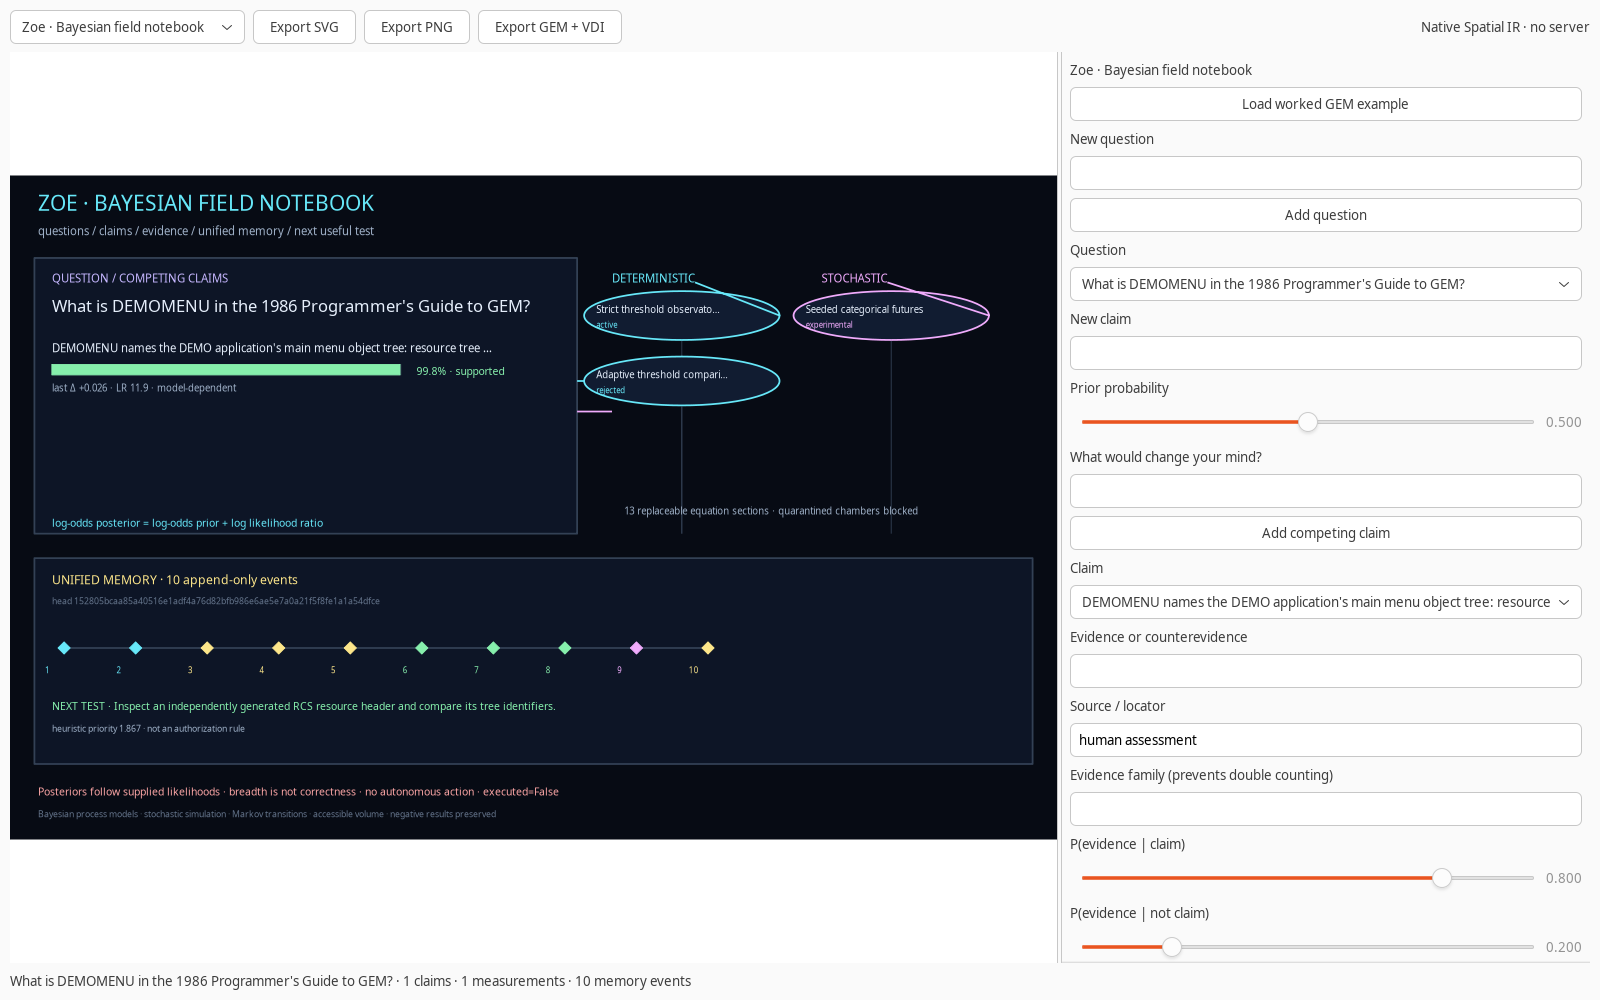
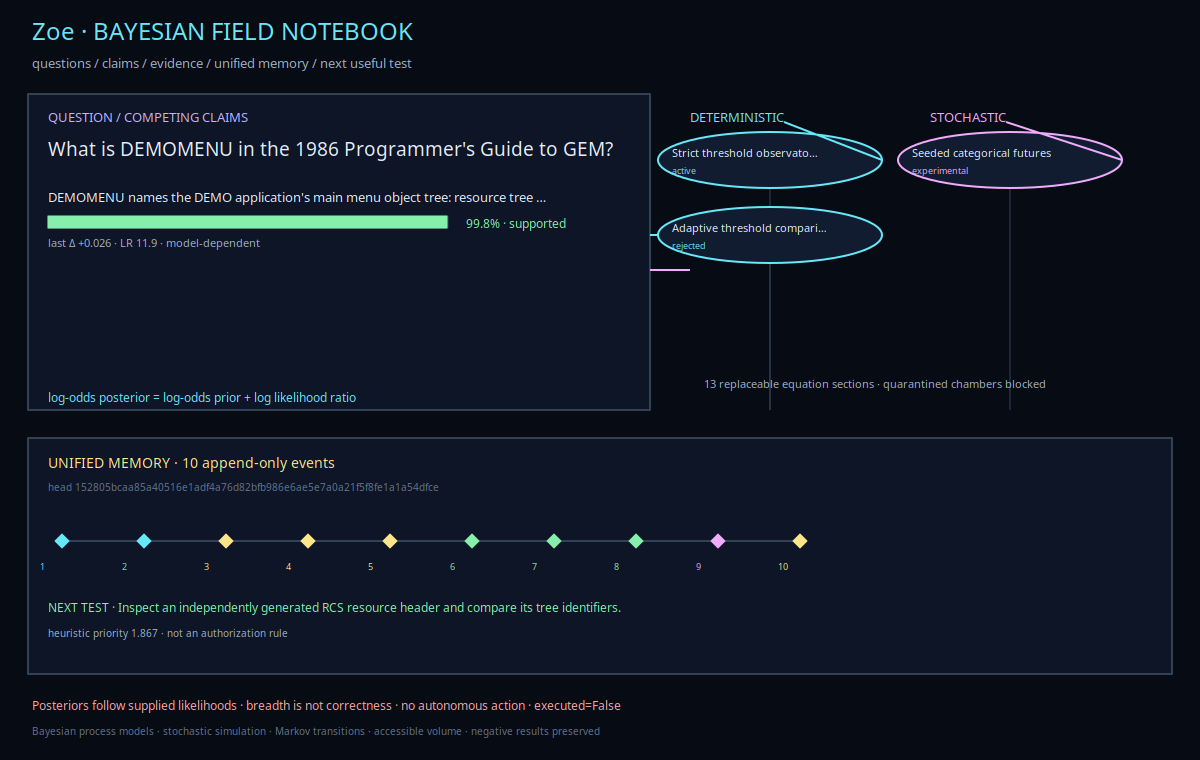
Use Zoe capitalization and Chalkboard host mapping

diff --git a/guiai-lab/guiai/gem/unified.py b/guiai-lab/guiai/gem/unified.py
@@ -12,7 +12,7 @@ import sys
 from .field import _fit
 
 
-IDENTITY = "ZOE is allgems"
+IDENTITY = "Zoe is allgems"
 
 
 @dataclass(frozen=True)
@@ -70,12 +70,23 @@ class ComponentRegistry:
         checkout = component.checkout
         bundled = self.root / "components" / checkout
         external = self.root.parent / checkout
+        host_variables = {
+            "ablation": "ZOE_ABLATION_ROOT",
+            "gem-lab": "ZOE_ABLATION_ROOT",
+            "cerotto": "ZOE_CEROTTO_ROOT",
+            "chalkboard": "ZOE_CHALKBOARD_ROOT",
+        }
+        host_variable = host_variables.get(identifier)
+        host = Path(os.environ.get(host_variable, self.root.parent)).expanduser().resolve() if host_variable else None
         if component.identifier == "zoe":
             path = self.root / component.checkout
             mode = "zoe"
         elif (bundled / "README.md").is_file():
             path = bundled
             mode = "bundled"
+        elif host is not None and (host / component.anchor).is_file():
+            path = host
+            mode = "host"
         elif (external / "README.md").is_file():
             path = external
             mode = "external"
@@ -141,7 +152,7 @@ class ComponentRegistry:
         return {
             "schema_version": 1,
             "identity": IDENTITY,
-            "product": "ZOE allgems knowledge-engineering distribution",
+            "product": "Zoe allgems knowledge-engineering distribution",
             "root": str(self.root),
             "entrypoint_count": len(rows),
             "repository_count": 10,
@@ -203,7 +214,7 @@ def unified_scene(registry=None, knowledge=None):
     colors = [cyan, yellow, pink, green, "#fda4af", "#93c5fd", "#fdba74", "#c4b5fd", "#a7f3d0", "#f9a8d4", "#d9f99d"]
     objects = [_rectangle("background", [0, 0, 1400, 1080], "#080d18", "#080d18")]
     objects.extend([
-        _text("title", [40, 51], "ZOE · ALLGEMS", 29, cyan),
+        _text("title", [40, 51], "Zoe · ALLGEMS", 29, cyan),
         _text("subtitle", [40, 83], "Trust Context / Stability Context", 17, "#e2e8f0"),
         _text("scope", [40, 109], f"{IDENTITY} · full source trees · one replayable knowledge field", 12, muted),
         _text("entrypoints", [45, 178], str(len(COMPONENTS)), 41, cyan),
@@ -218,8 +229,8 @@ def unified_scene(registry=None, knowledge=None):
     for index, color in enumerate(colors[:10]):
         objects.append(_orbit(f"identity-orbit-{index}", [1150, 168], [120, 42], index * 18, color))
     objects.append(_ellipse("identity-center", [1150, 168], [43, 30], cyan, "#080d18", 2))
-    objects.append(_text("identity-center-label", [1117, 175], "ZOE", 20, "#e2e8f0"))
-    objects.append(_text("orbital-caption", [984, 254], "ZOE orbital eye · allgems · original vector interpretation", 11, muted))
+    objects.append(_text("identity-center-label", [1117, 175], "Zoe", 20, "#e2e8f0"))
+    objects.append(_text("orbital-caption", [984, 254], "Zoe orbital eye · allgems · original vector interpretation", 11, muted))
     for index, component in enumerate(manifest["components"]):
         x = 40 + (index % 4) * 340
         y = 294 + (index // 4) * 202

diff --git a/assets/branding/render_eye.py b/assets/branding/render_eye.py
@@ -46,7 +46,7 @@ def build():
     parts.extend([
         '<circle cx="600" cy="382" r="48" fill="#0a1627" stroke="#67e8f9" stroke-width="2"/>',
         '<text x="600" y="397" fill="#d8f8ff" font-family="Lato, sans-serif" font-size="42" text-anchor="middle">Z</text>',
-        '<text x="600" y="752" fill="#b7cce3" font-family="Lato, sans-serif" font-size="11" letter-spacing="3" text-anchor="middle">ZOE · ALLGEMS</text>',
+        '<text x="600" y="752" fill="#b7cce3" font-family="Lato, sans-serif" font-size="11" letter-spacing="3" text-anchor="middle">Zoe · ALLGEMS</text>',
     ])
     return "".join(parts)
 
@@ -55,8 +55,8 @@ def render():
     svg_path = ROOT / "zoe-eye.svg"
     png_path = ROOT / "zoe-eye.png"
     if svg_path.exists() or png_path.exists():
-        raise FileExistsError("ZOE emblem exports will not overwrite existing files")
-    svg = f'<svg xmlns="http://www.w3.org/2000/svg" width="{WIDTH}" height="{HEIGHT}" viewBox="0 0 {WIDTH} {HEIGHT}" role="img" aria-label="ZOE allgems orbital eye emblem"><title>ZOE allgems orbital eye emblem</title>{build()}</svg>\n'
+        raise FileExistsError("Zoe emblem exports will not overwrite existing files")
+    svg = f'<svg xmlns="http://www.w3.org/2000/svg" width="{WIDTH}" height="{HEIGHT}" viewBox="0 0 {WIDTH} {HEIGHT}" role="img" aria-label="Zoe allgems orbital eye emblem"><title>Zoe allgems orbital eye emblem</title>{build()}</svg>\n'
     with svg_path.open("x", encoding="utf-8") as stream:
         stream.write(svg)
     converter = shutil.which("rsvg-convert")

diff --git a/guiai-lab/stress/unified_stress.py b/guiai-lab/stress/unified_stress.py
@@ -45,7 +45,9 @@ class UnifiedSourceCase(unittest.TestCase):
         self.assertEqual(manifest["upstream_repository_count"], 9)
         self.assertEqual(manifest["entrypoint_count"], 11)
         self.assertTrue(all(row["source"]["source_present"] for row in manifest["components"]))
-        self.assertTrue(all(row["source"]["mode"] in {"bundled", "zoe"} for row in manifest["components"]))
+        self.assertTrue(all(row["source"]["mode"] in {"bundled", "zoe", "host"} for row in manifest["components"]))
+        self.assertEqual(REGISTRY.source("chalkboard")["mode"], "bundled")
+        self.assertTrue(REGISTRY.source("chalkboard")["available"])
         for component in COMPONENTS:
             if component.revision is not None:
                 self.assertEqual(component.revision, lock["components"][component.checkout]["revision"])
@@ -159,7 +161,7 @@ class UnifiedSourceCase(unittest.TestCase):
             with contextlib.redirect_stdout(io.StringIO()):
                 self.assertEqual(gem_main(["zoe", "--module", "unified", "--output", str(output)]), 0)
             text = output.read_text(encoding="utf-8")
-            self.assertIn("ZOE · ALLGEMS", text)
+            self.assertIn("Zoe · ALLGEMS", text)
             self.assertIn("Kevlar", text)
             self.assertIn("Chalkboard", text)
 

diff --git a/guiai-lab/guiai/gem/qualia.py b/guiai-lab/guiai/gem/qualia.py
@@ -255,8 +255,8 @@ def qualia_scene(lens="overview"):
         selected = lens == name
         objects.append(_rectangle(f"panel-{name}", bounds, RED if selected else "#294058", PANEL, 3 if selected else 1))
     objects.extend([
-        _text("title", [28, 46], "ZOE / QUALE", 28, RED),
-        _text("subtitle", [28, 79], "ZOE IS RED · ZOE IS GEM · GEM IS ZOE", 16, GOLD),
+        _text("title", [28, 46], "Zoe / QUALE", 28, RED),
+        _text("subtitle", [28, 79], "Zoe IS RED · Zoe IS GEM · GEM IS Zoe", 16, GOLD),
         _text("source", [616, 45], "A visual field guide to Balduzzi & Tononi (2009)", 16, TEXT),
         _text("scope", [636, 77], "Causal geometry, not a consciousness score", 14, MUTED),
         _text("repertoire-title", [50, 141], "01 / REPERTOIRE: NARROWING THE POSSIBLE", 16, CYAN),

diff --git a/guiai-lab/guiai/gem/field.py b/guiai-lab/guiai/gem/field.py
@@ -669,7 +669,7 @@ def field_scene(notebook):
     state = notebook.state()
     objects = [
         {"id": "background", "type": "rectangle", "bounds": [0, 0, 1200, 760], "stroke": "#070b14", "fill": "#070b14", "width": 1},
-        _text("title", [32, 40], "ZOE · BAYESIAN FIELD NOTEBOOK", 24, "#67e8f9"),
+        _text("title", [32, 40], "Zoe · BAYESIAN FIELD NOTEBOOK", 24, "#67e8f9"),
         _text("subtitle", [32, 68], "questions / claims / evidence / unified memory / next useful test", 13, "#9fb1c8"),
     ]
     question = state["questions"][-1] if state["questions"] else None

diff --git a/guiai-lab/guiai/gem/atlas.py b/guiai-lab/guiai/gem/atlas.py
@@ -9,7 +9,7 @@ from .qualia import qualia_scene
 from .volume import measure_probabilities
 
 ATLAS_MODULES = {
-    "unified": "ZOE · allgems",
+    "unified": "Zoe · allgems",
     "brain": "Zoe · BRAIN orchestration",
     "field": "Zoe · Bayesian field notebook",
     "cognitive": "Z.O.E. · Cognitive Field / GSP",

diff --git a/guiai-lab/docs/UNIFIED.md b/guiai-lab/docs/UNIFIED.md
@@ -1,6 +1,8 @@
-# ZOE · allgems: unified architecture and verification
+# Zoe · allgems: unified architecture and verification
 
-ZOE is a single source repository containing the ten public Ablation-Tool organization repositories, including Zoe. The original repositories remain independent upstream projects. This repository does not require submodules or a runtime download to inspect their source.
+Zoe is a single source repository containing the ten public Ablation-Tool organization repositories, including Zoe. The original repositories remain independent upstream projects. This repository does not require submodules or a runtime download to inspect their source.
+
+Embedded layouts can resolve a host component through `ZOE_ABLATION_ROOT`, `ZOE_CEROTTO_ROOT`, or `ZOE_CHALKBOARD_ROOT`. Bundled sources take precedence. Host sources are used only when their component anchors exist. Chalkboard remains a content library, not a GUI process.
 
 ## Source and provenance
 
@@ -43,7 +45,7 @@ python -m pip install ./guiai-lab
 zoe
 ```
 
-The native selector is **ZOE · allgems**. It supports:
+The native selector is **Zoe · allgems**. It supports:
 
 - Opening Zoe's Cognitive Field.
 - Launching the Ablation core CLI, native Ablation Lab, canonical GEM, HELEN, BRAIN, Cerotto, research workbench, Kevlar, and PDF verification.
@@ -97,10 +99,10 @@ Measured results for this integration:
 - Cerotto: **65 normal and 65 sanitizer tests passed**. Kevlar: **149 tests passed**. BRAIN: **16 tests passed**, including native workflows.
 - Research: **16 comparison cases** and **120 BioBERT cases verified**. PDF seal/verify and no-overwrite checks used a synthetic source record. Chalkboard template and prompt paths were checked.
 - Unified integration: **8 headless and 8 native tests passed**, including real component commands, source graph replay, native controls, and VDI checks.
-- Zoe regressions: **31 existing tests**, **36 cognitive/GEM/unified tests with two optional skips**, **29 core-stress tests**, and **21 native-stress tests passed**.
+- Zoe regressions: **31 existing tests with four optional skips**, **28 cognitive/GEM native regressions**, and **8 headless plus 8 native unified tests passed**.
 - Package: both wheel and source distribution built; the wheel installed into the isolated test runtime. The installed `zoe` entrypoint opened the native hub used for the screenshot below. The exported graph reloaded with 11 observations, 10 links, and 21 events. The actual VDI file passed `verify_vdi` in `vdi-verification.json`.
 
-Local integration corrections are limited to the unified hub and two component compatibility fixes. BRAIN uses the existing sibling `_callbacks` helper correctly. Ablation Lab reuses each button's themed pixbuf, updates its image only when that pixbuf changes, restores compact preferences synchronously, and lets the shutdown fallback reap an exited child even when the VTE callback has not run. No original test assertion was weakened.
+Product-facing text uses `Zoe` without changing lowercase commands, imports, or environment identifiers. Embedded host components resolve through their documented root overrides, including `ZOE_CHALKBOARD_ROOT`. BRAIN uses the existing sibling `_callbacks` helper correctly. Ablation Lab reuses each button's themed pixbuf, updates its image only when that pixbuf changes, restores compact preferences synchronously, and lets the shutdown fallback reap an exited child even when the VTE callback has not run. No original test assertion was weakened.
 
 `evidence/unified/verification.json` records these results and their scopes. `components.json` and `source-graph.json` contain the final source identity. `render-*.json`, `vdi-verification.json`, and `chalkboard.json` preserve the corresponding real exports in that directory. One unrelated process-stat race appeared once in `test_timeout_kills_the_entire_process_group`: `/proc/<pid>` disappeared between the test's existence check and read. The unchanged suite passed on rerun; its assertion was not modified.
 
@@ -119,7 +121,7 @@ Do not bulk-update all components without reviewing their changes. Update `compo
 
 ## Emblem and symbol references
 
-`assets/branding/zoe-eye.png` is the primary ZOE emblem, generated from the user-supplied eye/orbital reference by `assets/branding/render_eye.py`. The earlier `orbital-emblem.png` remains the source of the orbital motif. The G, E, and M symbol-grid references are preserved under `assets/branding/references/` with their source filenames in `assets/branding/PROVENANCE.md`. Historical recognition for Gary Kildall and the original Digital Research contributors is recorded in `NOTICE`.
+`assets/branding/zoe-eye.png` is the primary Zoe emblem, generated from the user-supplied eye/orbital reference by `assets/branding/render_eye.py`. The earlier `orbital-emblem.png` remains the source of the orbital motif. The G, E, and M symbol-grid references are preserved under `assets/branding/references/` with their source filenames in `assets/branding/PROVENANCE.md`. Historical recognition for Gary Kildall and the original Digital Research contributors is recorded in `NOTICE`.
 
 ![Native unified hub](images/gem-unified-native.png)
 

diff --git a/README.md b/README.md
@@ -1,19 +1,19 @@
-<img src="assets/branding/zoe-eye.png" width="560" alt="ZOE allgems orbital eye emblem">
+<img src="assets/branding/zoe-eye.png" width="560" alt="Zoe allgems orbital eye emblem">
 
-# ZOE · allgems
+# Zoe · allgems
 
-**ZOE is one source repository for the complete Ablation framework, Ablation's native GUI, Cerotto, Kevlar, Zoe, and their related GEM engines and research tools.** The ten organization repositories are preserved as full tracked source trees, not downloaded at launch. The orbital eye is the shared emblem.
+**Zoe is one source repository for the complete Ablation framework, Ablation's native GUI, Cerotto, Kevlar, Zoe, and their related GEM engines and research tools.** The ten organization repositories are preserved as full tracked source trees, not downloaded at launch. The orbital eye is the shared emblem.
 
-**ZOE is the GEM, but the GEM is not ZOE. ZOE is allgems.**
+**Zoe is the GEM, but the GEM is not Zoe. Zoe is allgems.**
 
-Built using GEM. ZOE honors [Gary Kildall](https://en.wikipedia.org/wiki/Gary_Kildall), the creator of CP/M and co-founder of Digital Research who oversaw the creation of DRI's GEM, along with [Lee Jay Lorenzen, Don Heiskell, and the other documented contributors](https://en.wikipedia.org/wiki/GEM_(desktop_environment)). See the [historical recognition and source notices](NOTICE).
+Built using GEM. Zoe honors [Gary Kildall](https://en.wikipedia.org/wiki/Gary_Kildall), the creator of CP/M and co-founder of Digital Research who oversaw the creation of DRI's GEM, along with [Lee Jay Lorenzen, Don Heiskell, and the other documented contributors](https://en.wikipedia.org/wiki/GEM_(desktop_environment)). See the [historical recognition and source notices](NOTICE).
 
 **Knowledge Engineering** joins the components through one replayable knowledge graph:
 
 - **Trust Context:** source repository, revision, evidence scope, and authorization boundary.
 - **Stability Context:** component-specific processes, version locks, replayable memory, and separately tested behavior. This is not an uptime guarantee.
 
-![ZOE allgems knowledge-engineering hub](guiai-lab/docs/images/gem-unified.png)
+![Zoe allgems knowledge-engineering hub](guiai-lab/docs/images/gem-unified.png)
 
 ## One checkout. Ten repositories.
 
@@ -278,7 +278,7 @@ guiai/gem/helen_onset.py   Lazy HELEN artifact and temperature transforms
 guiai/gem/research.py      Hash-checked research evidence and conformance
 guiai/gem/atlas.py         Module registry and headless scene builders
 guiai/gem/atlas_view.py    Native GTK controls and host integration
-guiai/gem/unified.py       Component registry, isolated launch environments, and ZOE hub scene
+guiai/gem/unified.py       Component registry, isolated launch environments, and Zoe hub scene
 guiai/gem/knowledge.py     Replayable source observations and declared trust/stability links
 guiai/gem/unified_cli.py   `zoe` inspection, launch, manifest, and knowledge commands
 components/               Complete tracked source trees for the nine upstream repositories

diff --git a/guiai-lab/GEM.md b/guiai-lab/GEM.md
@@ -20,7 +20,7 @@ A successful evidence node is `complete_scoped` only for the stated source/VDI/d
 
 ## Zoe and the native geometry atlas
 
-Open **Chart → GEM → Zoe / MASTER GEM**, or run `gem zoe`, to enter the unified workspace. `gem master` and `gem brain` are compatibility aliases. Zoe adds deterministic BRAIN observation and recommendations, lazy HELEN predictions, exact toy multi-horizon continuations, and hash-checked research evidence to the native atlas. See [Zoe](docs/ZOE.md) for launch, evidence scope, and verification.
+Open **Chart → GEM → Zoe / MASTER GEM**, or run `gem zoe`, to enter the unified workspace. `gem master` and `gem brain` are compatibility aliases. Zoe adds deterministic BRAIN observation and recommendations, lazy HELEN predictions, exact toy multi-horizon continuations, and hash-checked research evidence to the native atlas. See [Zoe](docs/Zoe.md) for launch, evidence scope, and verification.
 
 Run `gem atlas` to explore the native Procrustes, ellipse, parabola, circle, modular-clock, graph, accessible-volume, and onset-forecast modules directly. Procrustes landmarks support pointer dragging and keyboard movement; other modules expose their geometric parameters beside the Cairo view. **Export SVG**, **Export PNG**, and **Export GEM + VDI** all use the current Spatial IR scene.
 

diff --git a/assets/branding/PROVENANCE.md b/assets/branding/PROVENANCE.md
@@ -1,6 +1,6 @@
-# ZOE visual identity provenance
+# Zoe visual identity provenance
 
-`zoe-eye.{png,svg}` is the primary ZOE emblem, generated by `assets/branding/render_eye.py` from the user-supplied eye/orbital reference. Its central Z, nested eye curves, stars, and numbered nodes are an original composition, not a scientific model or a copied source image.
+`zoe-eye.{png,svg}` is the primary Zoe emblem, generated by `assets/branding/render_eye.py` from the user-supplied eye/orbital reference. Its central Z, nested eye curves, stars, and numbered nodes are an original composition, not a scientific model or a copied source image.
 
 `orbital-emblem.png` is the user-supplied image `Screenshot From 2026-11-05 02-35-39.png`. It established the shared orbital motif. The unified hub renders a vector interpretation using the Spatial IR scene in `guiai/gem/unified.py`.
 

diff --git a/guiai-lab/docs/GEOMETRY-ATLAS.md b/guiai-lab/docs/GEOMETRY-ATLAS.md
@@ -22,7 +22,7 @@ gem atlas --module procrustes
 PYTHONPATH=guiai-lab python -m guiai.gem zoe
 ```
 
-See [Zoe — living geometry, inspectable futures](ZOE.md) for BRAIN observation, exact multi-horizon continuations, and research-pack ingestion. In GUIAI Lab, open **Chart → GEM → Zoe / MASTER GEM**. The native window is independent of the investigation scene; the existing Lab selection, evidence states, and session history remain unchanged.
+See [Zoe — living geometry, inspectable futures](Zoe.md) for BRAIN observation, exact multi-horizon continuations, and research-pack ingestion. In GUIAI Lab, open **Chart → GEM → Zoe / MASTER GEM**. The native window is independent of the investigation scene; the existing Lab selection, evidence states, and session history remain unchanged.
 
 Headless export does not require GTK:
 
